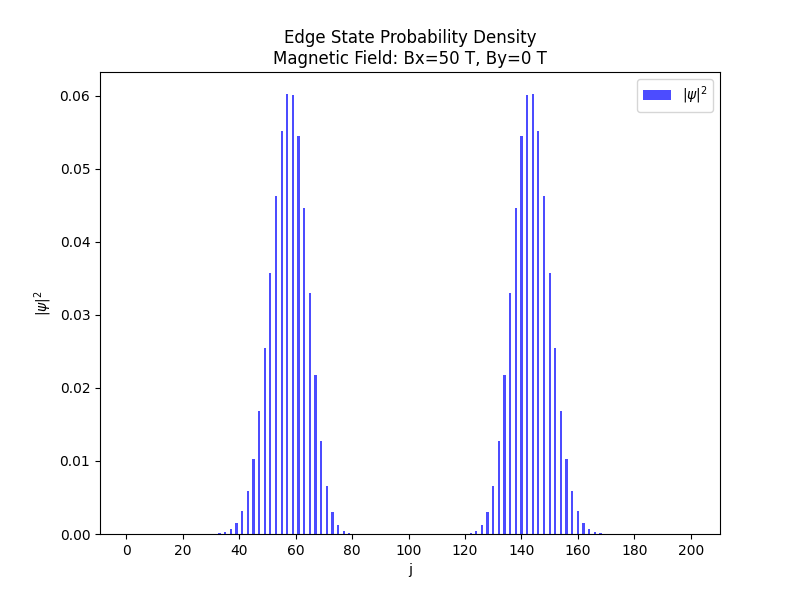
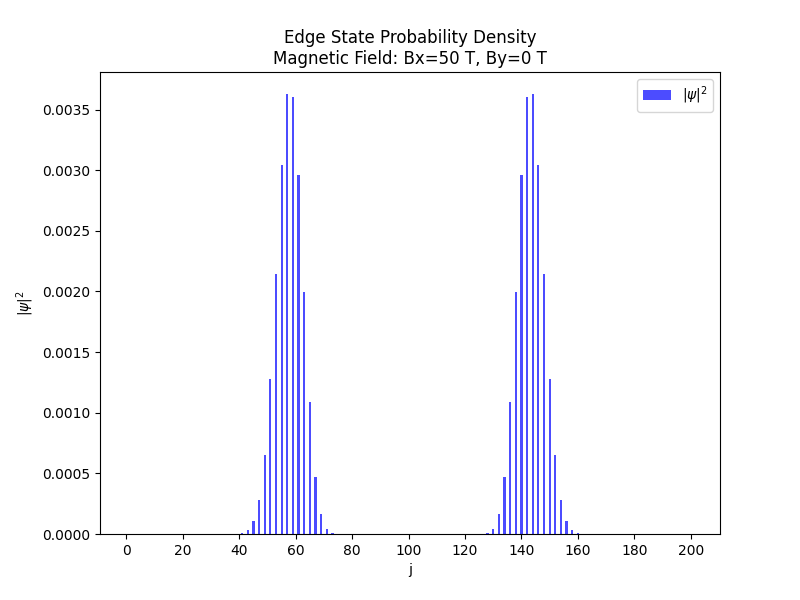
more plots

diff --git a/src/edge.py b/src/edge.py
@@ -11,6 +11,7 @@ class EdgeStates:
         self.hbar_ev = hbar_SI / eC
         self.a = 0.246e-9
         self.v = (np.sqrt(3) * self.hop[0] * self.a) / (2 * self.hbar_ev)
+        self.qc = self.hop[1] / (self.v * self.hbar_ev)
 
     def get_pi(self, q: np.ndarray, mag: np.ndarray, i: int, dag: bool) -> np.ndarray:
         """Compute pi term for Hamiltonian matrix.
@@ -57,7 +58,7 @@ class EdgeStates:
                 ham[2 * (i + 1), 2 * i + 1] = gamma_1
         return ham
 
-    def solve_hamiltonian(self, q: np.ndarray, mag: np.ndarray) -> np.ndarray:
+    def solve_hamiltonian(self, q: np.ndarray, mag: np.ndarray) -> list[np.ndarray]:
         """
         Solve the hamiltonian.
         Args:
@@ -68,22 +69,62 @@ class EdgeStates:
         """
         ham = self.hamiltonian(q, mag)
         evals, evecs = np.linalg.eigh(ham)
-        zero_state = None
+        zero_states = []
         for i, val in enumerate(evals):
-            if np.isclose(val, 0, atol=1e-9):
+            print(f"Eigenvalue {i}: {val}")
+            if np.isclose(val, 0, atol=1e-2):
                 zero_state = evecs[:, i]
-                break
-        if zero_state is None:
-            raise ValueError("No zero energy state found.")
-        psi_sq = np.abs(zero_state)**2
-        return psi_sq
+                zero_states.append(zero_state)
+        return zero_states
 
-    def plot_edge_state(self, psi_sq: np.ndarray, mag: np.ndarray):
+    def plot_psi(self, psi: np.ndarray, mag: np.ndarray, i: int):
+        """
+        Plot the edge state wavefunction as bar graph with a and b sites next to each other both labeled as site j.
+        Args:
+            psi (np.ndarray): The wavefunction psi.
+        """ 
+
+        # Example data
+        m = np.arange(1, self.n + 1)  # cell index
+        values1 = psi[0::2]  # a sites
+        values2 = psi[1::2]  # b sites
+
+        # Bar width
+        width = 0.35
+
+        # Create the plot
+        _, ax = plt.subplots(figsize=(10, 4))
+
+        # Two bar sets (one slightly shifted)
+        ax.bar(m - width/2, values1, width=width, color='gray', edgecolor='black')
+        ax.bar(m + width/2, values2, width=width, color='white', edgecolor='black')
+
+        # Axis labels
+        ax.set_xlim(0.5, len(m) + 0.5)
+        ax.set_xlabel(r'cell index $m$', fontsize=14)
+        ax.set_ylim(-0.8, 0.8)
+        ax.set_yticks([-0.8, 0, 0.8])
+        ax.set_xticks(m)
+        ax.set_xticklabels(m)
+        for spine in ax.spines.values():
+            spine.set_visible(True)
+            spine.set_linewidth(1)
+
+        ax.tick_params(direction='in', top=True, right=True)
+
+        plt.legend([r'a sites', r'b sites'])
+
+        # save plot
+        plt.title(f'Edge State Wavefunction\nMagnetic Field: Bx={mag[0]} T, By={mag[1]} T')
+        plt.savefig(f'./plots/edge_wavefunction_Bx{mag[0]}_N{self.n}_{i}.png', dpi=300)
+
+    def plot_prob_dist(self, psi: np.ndarray, mag: np.ndarray, i: int):
         """
         Plot the edge state probability density as bar graph.
         Args:
             psi_sq (np.ndarray): The probability density |psi|^2.
         """ 
+        psi_sq = np.abs(psi)**2
         j_max = 2 * self.n + 1
         j = np.arange(1, j_max) # atomic site
         plt.figure(figsize=(8, 6))
@@ -93,7 +134,7 @@ class EdgeStates:
         plt.bar(j, psi_sq, width=0.8, color='blue', alpha=0.7, label=r'$|\psi|^2$')
         plt.xticks(ticks=np.arange(0, j_max, 20))
         plt.legend()
-        plt.savefig(f'./plots/edge_state_Bx{mag[0]}_N{self.n}.png')
+        plt.savefig(f'./plots/edge_state_Bx{mag[0]}_N{self.n}_{i}.png')
 
     def run(self, q: np.ndarray, mag: np.ndarray):
         """
@@ -102,6 +143,8 @@ class EdgeStates:
             q (np.ndarray): A 2D momentum vector.
             mag (np.ndarray): A 2D magnetic field vector.
         """
-        psi_sq = self.solve_hamiltonian(q, mag)
-        self.plot_edge_state(psi_sq, mag)
+        states = self.solve_hamiltonian(q, mag)
+        for i, psi in enumerate(states):
+            self.plot_prob_dist(psi, mag, i)
+            self.plot_psi(psi, mag, i)
 

diff --git a/src/main.py b/src/main.py
@@ -12,8 +12,9 @@ def minimal():
 def edge_states(): 
     hop = np.array([3.16, 0.381])  # Coupling parameters in eV
     edge = EdgeStates(n=10, hop=hop)
-    mag = np.array([0, 0])  # Magnetic field in Tesla
-    q = np.array([0, 0])  # Momentum vector
+    mag = np.array([50, 0])  # Magnetic field in Tesla
+    qx = edge.qc*0.1
+    q = np.array([qx, 0.0])
     edge.run(q, mag)
 
 def main():

diff --git a/src/minimal.py b/src/minimal.py
@@ -3,7 +3,6 @@ from scipy.constants import hbar as hbar_SI, e as eC
 import matplotlib.pyplot as plt
 from alive_progress import alive_bar
 
-
 class Simulation:
     def __init__(self, n: int, hop: np.ndarray, mag: np.ndarray,
                  d: float = 0.346e-9, max_qx_qc: float = 1.5,
